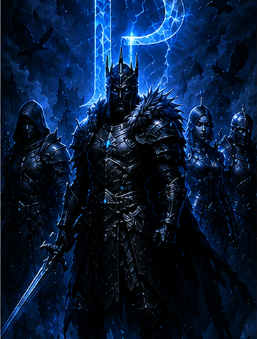
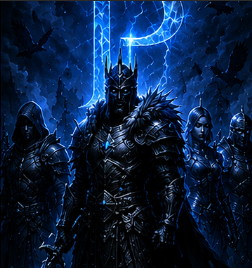
Redo Last

diff --git a/src/components/HomeSections.tsx b/src/components/HomeSections.tsx
@@ -1,5 +1,6 @@
 import { useEffect, useState } from 'react'
 import logoImg from '../assets/logo_playcrows.png'
+import playcrowsLogo from '../assets/playcrows_logo.png'
 import thumbAnnouncement from '../assets/announcement.png'
 import thumbUpdate from '../assets/update.png'
 import thumbGameInfo from '../assets/game.png'
@@ -47,15 +48,16 @@ export function Hero() {
       />
 
       <div className="absolute inset-0 flex flex-col items-center justify-center text-center px-6 z-10">
-        <h1
-          className="font-cinzel font-bold text-white mb-4"
+        <img
+          src={playcrowsLogo}
+          alt="PLAYCROWS"
+          className="mb-4"
           style={{
-            fontSize: "clamp(2rem,5vw,3.8rem)",
-            letterSpacing: ".08em",
+            height: "clamp(160px,26vw,340px)",
+            width: "auto",
+            maxWidth: "90%",
           }}
-        >
-          {slide.title}
-        </h1>
+        />
 
         <p
           style={{
@@ -115,7 +117,7 @@ export function NewsGrid({ navigate, scrollTo }: { navigate: (p: Page) => void; 
         { label: 'Donation Center', onClick: () => scrollTo('donation') },
         { label: 'New Player Starter Rewards', onClick: () => scrollTo('donation') },
         { label: 'FAQ — Account & Login', onClick: () => scrollTo('discord-section') },
-        { label: 'Contact Staff via Discord', onClick: () => scrollTo('discord-section') },
+        { label: 'Contact Staff via Discord', onClick: () => window.open('https://discord.gg/ayxHdychr', '_blank') },
       ],
     },
   ]
@@ -620,9 +622,6 @@ export function DiscordSection() {
               <p style={{ fontSize: 13, color: '#B5BAC1', fontFamily: 'Inter, sans-serif', lineHeight: 1.65, marginBottom: 16 }}>
                 PlayCrows is a community-driven Night Crows Private Server built for players who want a fair, competitive, and rewarding experience.
               </p>
-              <a href="https://discord.gg/ayxHdychr" target="_blank" rel="noopener noreferrer" className="block text-center no-underline font-semibold mb-4" style={{ background: '#23A55A', color: '#fff', borderRadius: 4, padding: '10px', fontSize: 14, fontFamily: 'Inter, sans-serif', letterSpacing: '0.02em' }}>
-                Go to Server
-              </a>
             </div>
           </div>
         </div>

diff --git a/src/components/Navbar.tsx b/src/components/Navbar.tsx
@@ -31,8 +31,8 @@ export function Navbar({ navigate, goHome, scrollTo }: { navigate: (p: Page) => 
         </div>
 
         <div className="hidden lg:flex items-center gap-2">
-          <a href="#" className="btn-register no-underline">Register</a>
-          <button onClick={() => { setMenuOpen(false); }} className="btn-secondary flex items-center gap-2" style={{ padding: '9px 16px', fontSize: '12px' }}>
+          <a href="https://account.playcrows.com/regchannel.php?pid=3006" target="_blank" rel="noopener noreferrer" className="btn-register no-underline">Register</a>
+          <button onClick={() => { setMenuOpen(false); window.open('https://discord.gg/ayxHdychr', '_blank') }} className="btn-secondary flex items-center gap-2" style={{ padding: '9px 16px', fontSize: '12px' }}>
             <IcoDiscordSmall />Discord
           </button>
           <button onClick={() => scrollTo('download')} className="btn-primary" style={{ padding: '10px 20px', fontSize: '12px' }}><span>Download</span></button>
@@ -49,8 +49,8 @@ export function Navbar({ navigate, goHome, scrollTo }: { navigate: (p: Page) => 
             <button key={link} onClick={() => { setMenuOpen(false); scrollTo(linkIds[link]) }} className="nav-link bg-transparent border-none p-0 cursor-pointer text-left">{link}</button>
           ))}
           <div className="flex flex-wrap gap-3 pt-2">
-            <a href="#" className="btn-register no-underline">Register</a>
-            <button onClick={() => { setMenuOpen(false); }} className="btn-secondary" style={{ padding: '9px 16px', fontSize: '12px' }}>Discord</button>
+            <a href="https://account.playcrows.com/regchannel.php?pid=3006" target="_blank" rel="noopener noreferrer" className="btn-register no-underline">Register</a>
+            <button onClick={() => { setMenuOpen(false); window.open('https://discord.gg/ayxHdychr', '_blank') }} className="btn-secondary" style={{ padding: '9px 16px', fontSize: '12px' }}>Discord</button>
             <button onClick={() => { setMenuOpen(false); scrollTo('download') }} className="btn-primary" style={{ padding: '10px 16px', fontSize: '12px' }}><span>Download</span></button>
           </div>
         </div>
